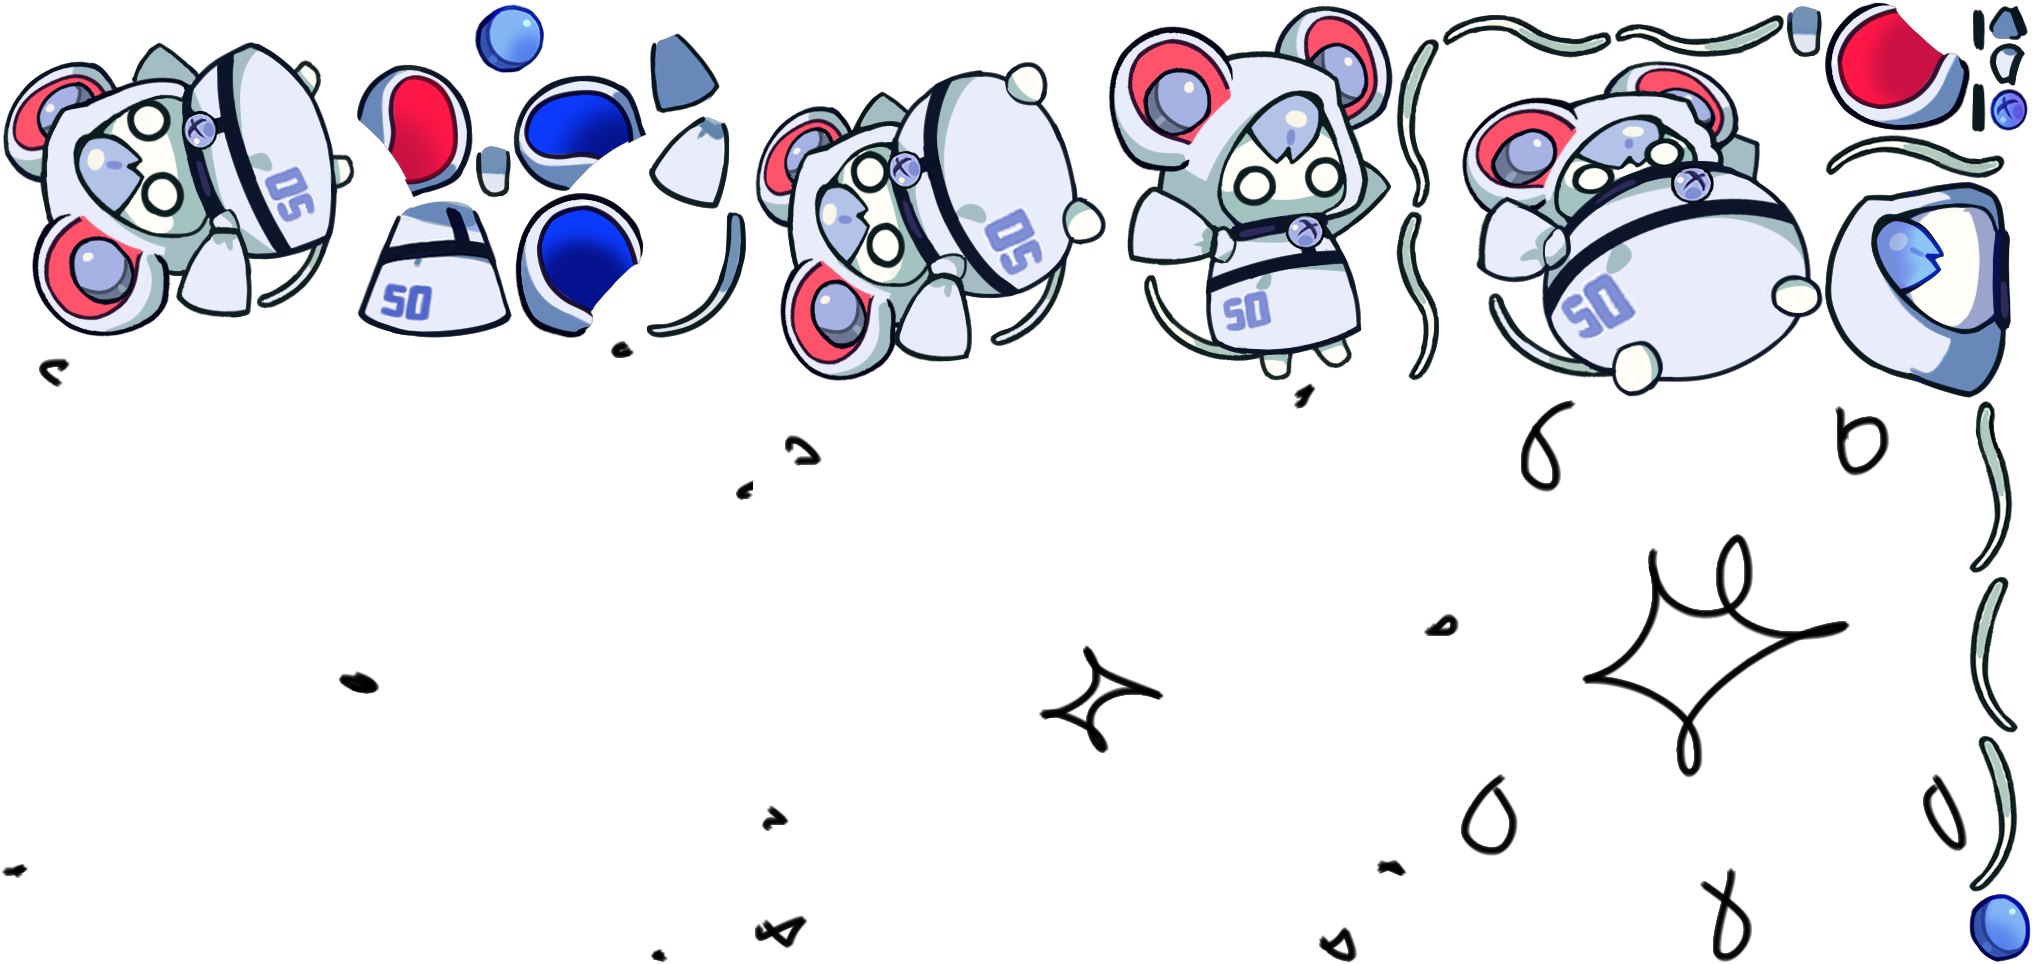
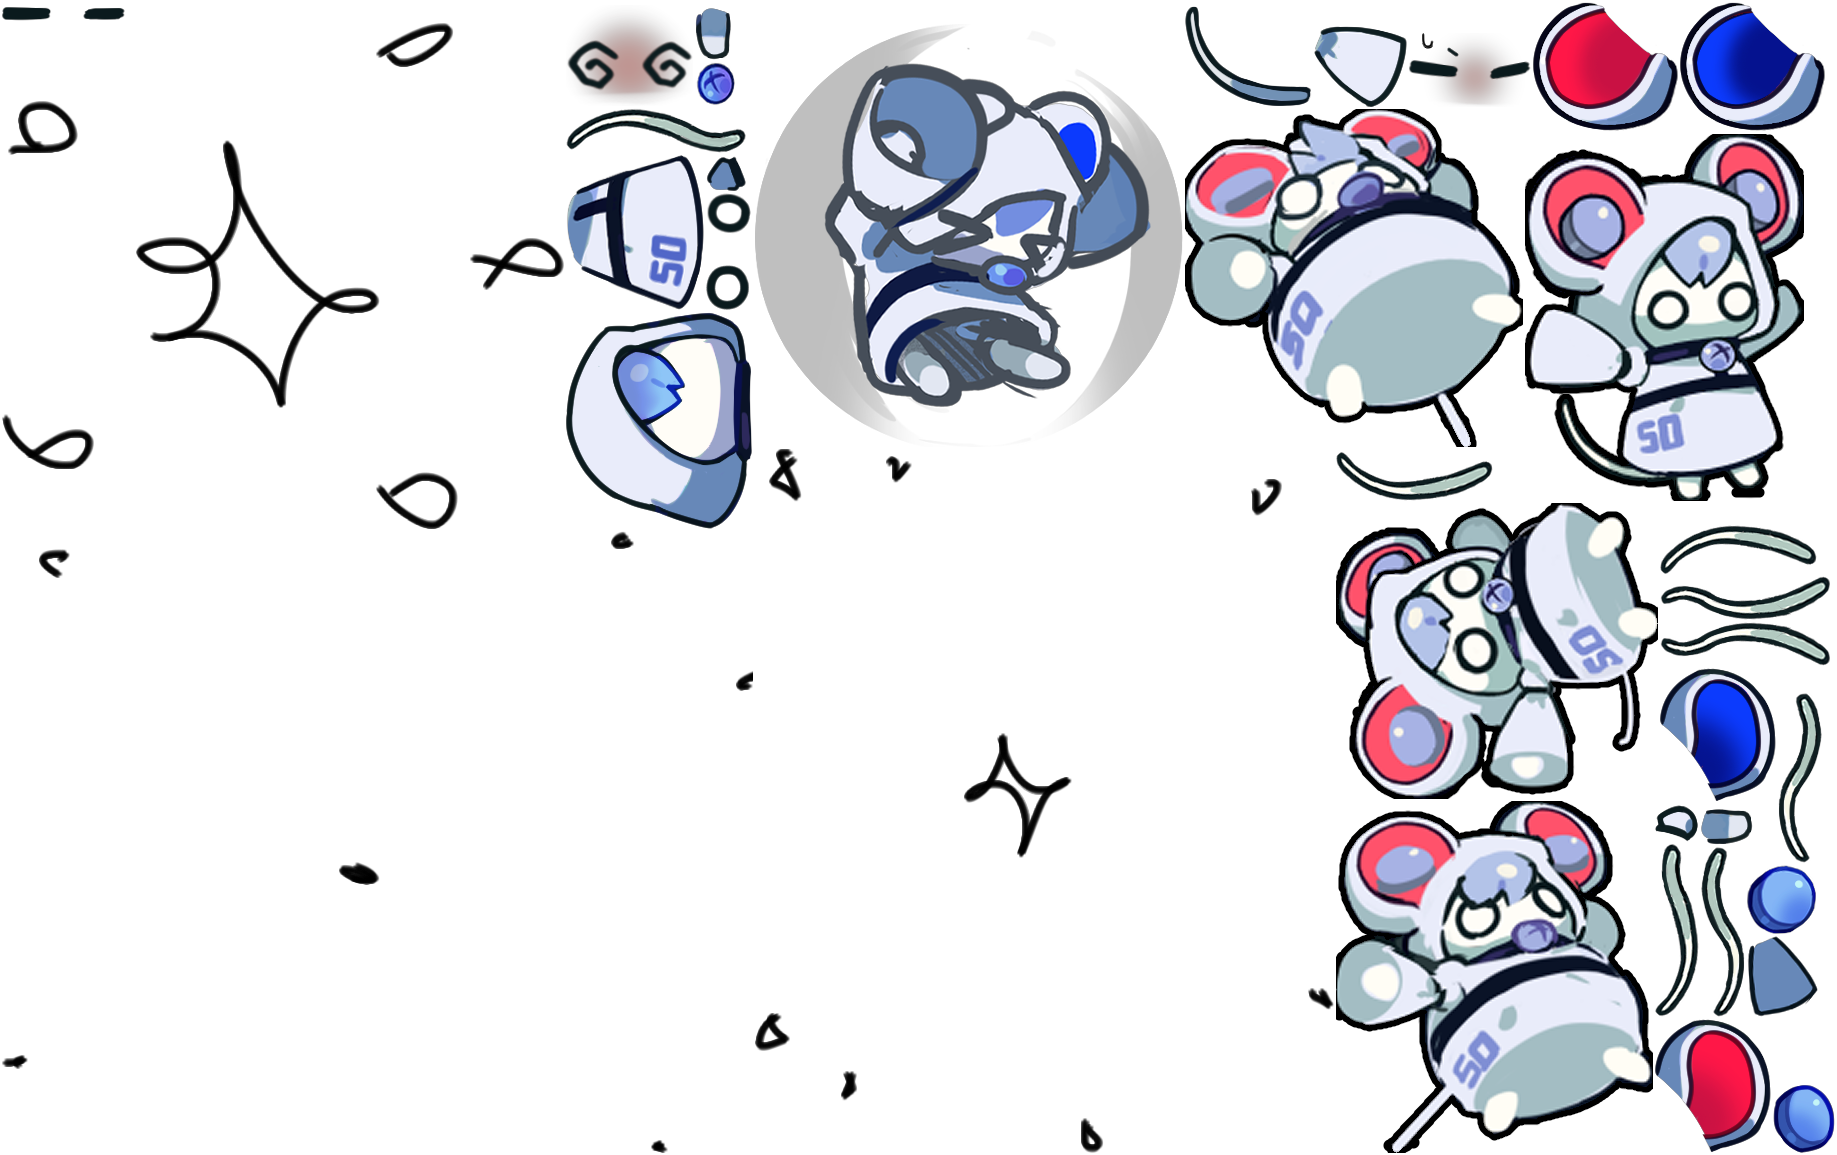
WIP 플레이어 애니메이션 업데이트

diff --git a/Assets/200_Scripts/Player/Player.cs b/Assets/200_Scripts/Player/Player.cs
@@ -51,6 +51,16 @@ public class Player : MonoBehaviour
     private bool isGrounded;
     private bool wasGrounded;
 
+    private int gravityFlipComboCount;
+    public int GravityFlipComboCount
+    {
+        get => gravityFlipComboCount;
+        set
+        {
+            gravityFlipComboCount = value;
+        }
+    }
+
     public bool IsGrounded
     {
         get => isGrounded;
@@ -70,6 +80,7 @@ public class Player : MonoBehaviour
                     s_landingParticlePrefab.GetComponent<ParticleSystem>().Play();
 
                 // TODO : 착지 효과음 재생
+                GravityFlipComboCount = 0;
             }
         }
     }
@@ -240,6 +251,32 @@ public class Player : MonoBehaviour
                 IsFacingLeft = false;
             }
         }
+
+        var eyeSlot = skeletonAnimation.Skeleton.FindSlot("eye");
+        if (isCollidingWithGravityFlip)
+        {
+            if (GravityFlipComboCount <= 1)
+            {
+                eyeSlot.Attachment = skeletonAnimation.Skeleton.GetAttachment("eye", "eye_flip_1");
+                Debug.Log("eye_flip_1");
+            }
+            else if (GravityFlipComboCount <= 2)
+            {
+                eyeSlot.Attachment = skeletonAnimation.Skeleton.GetAttachment("eye", "eye_flip_2");
+                Debug.Log("eye_flip_2");
+            }
+            else
+            {
+                eyeSlot.Attachment = skeletonAnimation.Skeleton.GetAttachment("eye", "eye_flip_3");
+                Debug.Log("eye_flip_3");
+            }
+        }
+        else
+        {
+            eyeSlot.Attachment = skeletonAnimation.Skeleton.GetAttachment("eye", "eye");
+        }
+
+        Debug.Log(eyeSlot.Attachment.Name);
     }
 
     private void OnCollisionEnter2D(Collision2D collision)
@@ -308,6 +345,7 @@ public class Player : MonoBehaviour
         GameplayManager.Instance.flipCount++;
         IsGravityFlipped = !IsGravityFlipped;
         IsGrounded = false;
+        GravityFlipComboCount++;
 
         // 중력 반전시 바닥 먼지 파티클 재생
         if (r_dustParticlePrefab != null && s_dustParticlePrefab != null)
@@ -333,9 +371,6 @@ public class Player : MonoBehaviour
                 }
             }
         }
-
-        // 애니메이션 재생
-        skeletonAnimation.state.SetAnimation(0, "flipping", false);
 
         // TODO : 중력 반전 효과음 재생
     }

diff --git a/Assets/200_Scripts/GameplayObjects/Types/05.Platforms/JumpPadPlatform.cs b/Assets/200_Scripts/GameplayObjects/Types/05.Platforms/JumpPadPlatform.cs
@@ -25,11 +25,17 @@ public class JumpPadPlatform : MonoBehaviour, ICollisionable
         // 설정된 방향으로 힘을 가함
         player.rb2d.AddForce(jumpDirection.normalized * jumpForce, ForceMode2D.Impulse);
 
+        // 설정된 방향으로 반전
+        player.IsFacingLeft = jumpDirection.x < 0;
+
         // 점프 패드 충돌했을 때의 마찰력 설정
         player.jumpPadFriction = jumpPadFriction;
 
-        player.IsGrounded = false;
         player.isCollidingWithJumpPad = true;
+        player.IsGrounded = false;
+
+        // 플레이어 애니메이션 재생
+        player.skeletonAnimation.state.SetAnimation(0, "jumppad", true);
 
         // 경직 시간 설정
         player.stunTimer = 0.5f;

diff --git a/Assets/200_Scripts/Player/States/Moves/PlayerInAir.cs b/Assets/200_Scripts/Player/States/Moves/PlayerInAir.cs
@@ -5,7 +5,10 @@ public class PlayerInAir : BaseState<Player>
     public override void Enter(Player player)
     {
         // 애니메이션 재생
-        player.skeletonAnimation.state.SetAnimation(0, "flipping", false);
+        if (!player.isCollidingWithJumpPad)
+        {
+            player.skeletonAnimation.state.SetAnimation(0,  "flipping_up", false);
+        }
     }
 
     public override void Execute(Player player)

diff --git a/Assets/200_Scripts/GameplayObjects/Types/06.GravityFlips/GravityFlip.cs b/Assets/200_Scripts/GameplayObjects/Types/06.GravityFlips/GravityFlip.cs
@@ -11,5 +11,8 @@ public class GravityFlip : MonoBehaviour, ICollisionable
 
         player.rb2d.velocity /= 4f;
         player.GravityFlip();
+
+        // 애니메이션 재생
+        player.skeletonAnimation.state.SetAnimation(0, "lazer_flip", false);
     }
 }

diff --git a/Assets/200_Scripts/Player/States/Moves/PlayerGravityFlipping.cs b/Assets/200_Scripts/Player/States/Moves/PlayerGravityFlipping.cs
@@ -1,5 +1,3 @@
-using UnityEngine;
-
 public class PlayerGravityFlipping : BaseState<Player>
 {
     public override void Enter(Player player)
